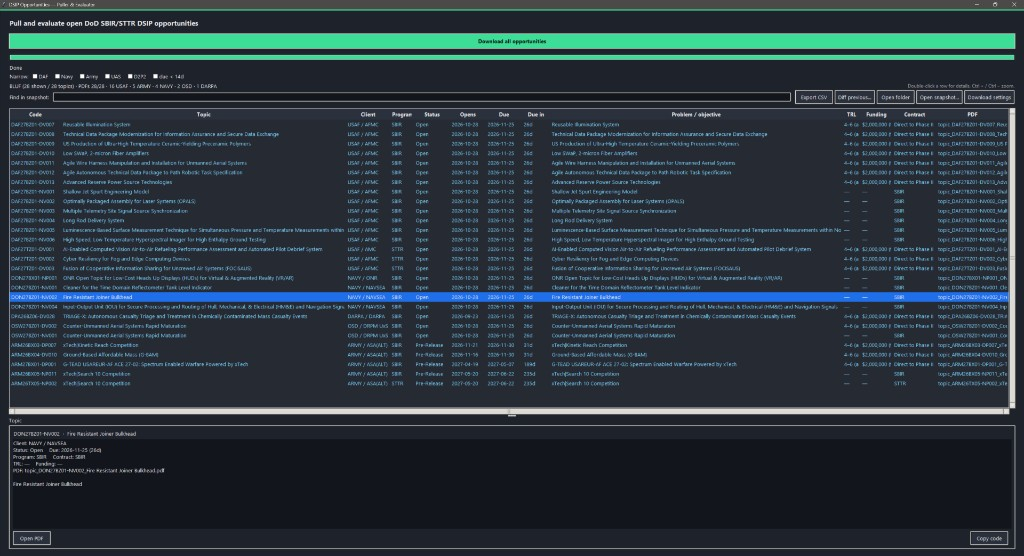
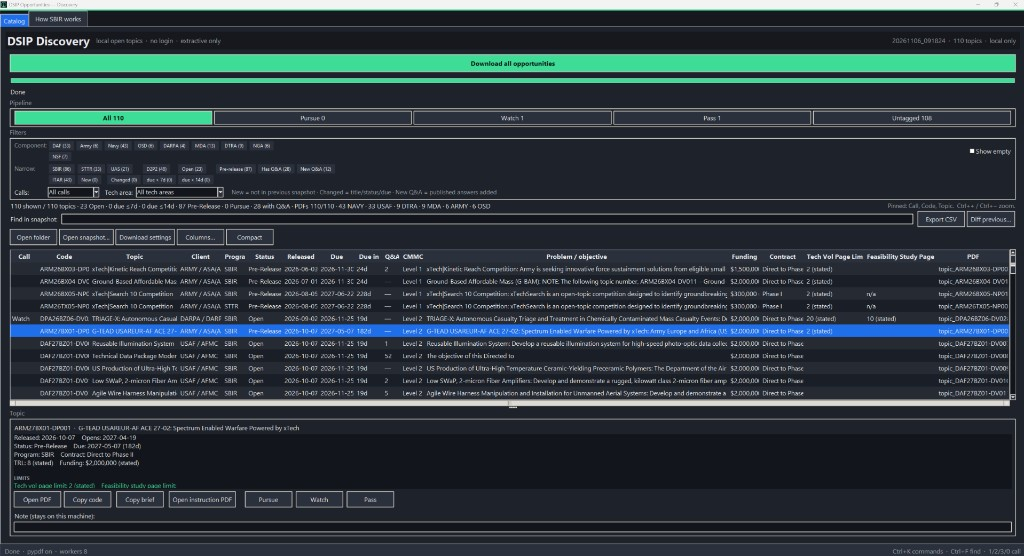
Refresh the README window capture so it matches the current Pipeline, Released, and Pre-release UI.

diff --git a/docs/implementation-recommendations.md b/docs/implementation-recommendations.md
@@ -70,8 +70,9 @@ Page limits (2026-11-03)
   snapshot, off by default, extractive fallback — [ADR 010](design-decisions/010-optional-local-llms.md).
   Do not bundle a GGUF in the exe.
 - Code-signed public Windows download.
-- Replace `docs/images/app-window.jpg` after the next real capture (counts,
-  overview, instruction button).
+- README screenshot (`docs/images/app-window.jpg`) updated 2026-11-06
+  (Pipeline, Released, Pre-release, New Q&A). Replace again when chrome
+  changes.
 - Optional second instruction PDF picker when a topic lists several.
 
 ## How to take a slice

diff --git a/README.md b/README.md
@@ -58,7 +58,7 @@ There is no packaged `.exe` for those platforms.
 5. Click a row. The bottom pane shows an extractive overview of that topic
    PDF, published Q&A, CMMC / ITAR, and actions.
 
-![DSIP Opportunities Discovery after a completed run](docs/images/app-window.jpg)
+![DSIP Opportunities Discovery after a completed run: Pipeline, Released, Pre-release, and New Q&A](docs/images/app-window.jpg)
 
 Useful keys and chips
 
